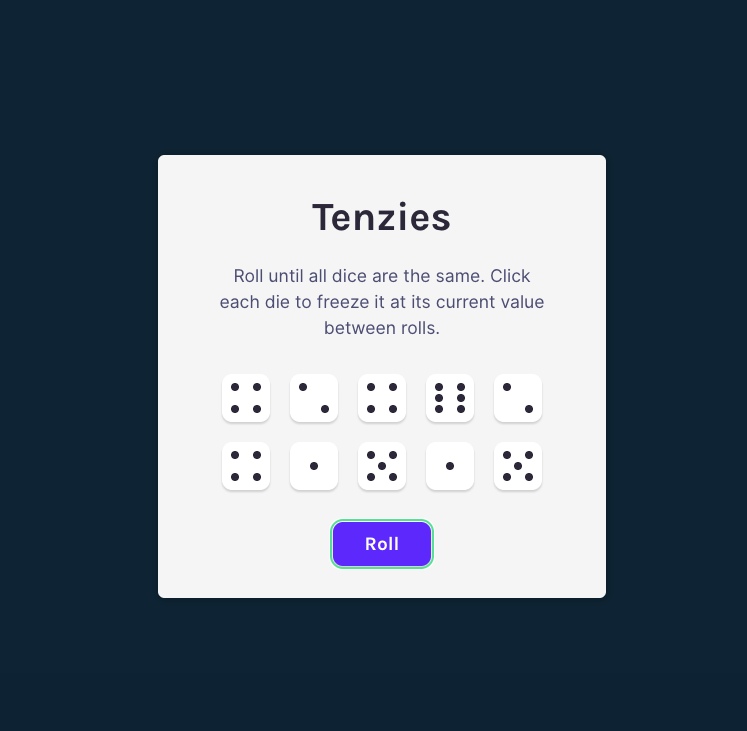
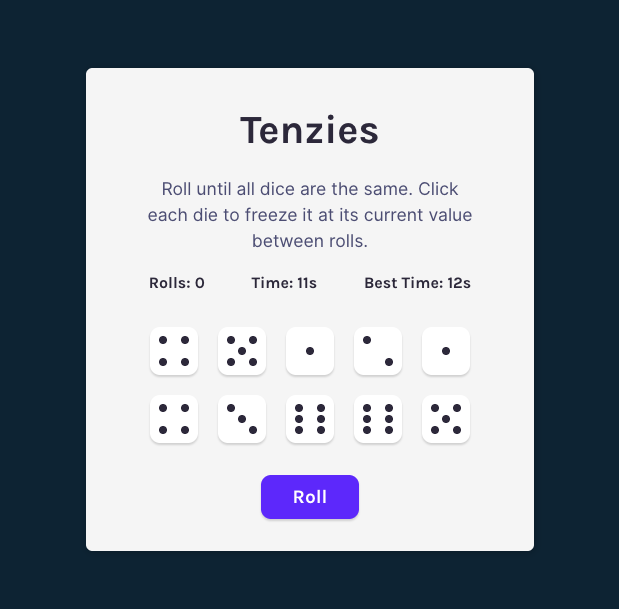
Update README

diff --git a/README.md b/README.md
@@ -8,12 +8,13 @@ This project uses lazy initialization, accessible focus states, and smooth UX wi
 ## Features
 
 - Tenzies gameplay with interactive, clickable dice
+- Tracks the **number of rolls** per game
+- Timer counts **seconds elapsed** during gameplay
+- Records and displays **best time** across sessions using `localStorage`
 - Lazy state initialization for improved performance
 - Confetti animation on win (`react-confetti`)
 - Accessible focus management and screen-reader announcements
-- Unique die IDs generated with `nanoid`
-- Automatic formatting, linting, and import/CSS organization using **Biome**
-- Installable as a PWA (Add to Home Screen)
+- Installable as a PWA (Progressive Web App)
 
 ## Tools Used
 
@@ -29,6 +30,7 @@ This project uses lazy initialization, accessible focus states, and smooth UX wi
 2. Click any die to **hold** its number.
 3. Continue rolling until **all dice show the same value**.
 4. When you win, a confetti animation appears.
+    - Your **time and rolls** are recorded; try to beat your best time!
 5. Click **New Game** to reset the board.
 
 ## 🚀 Performance
